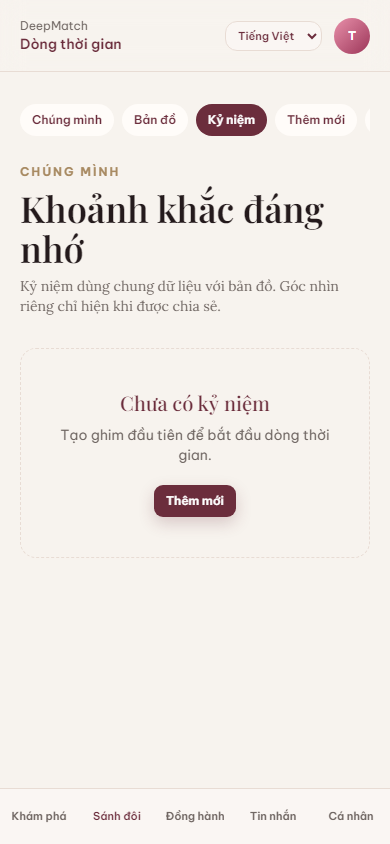
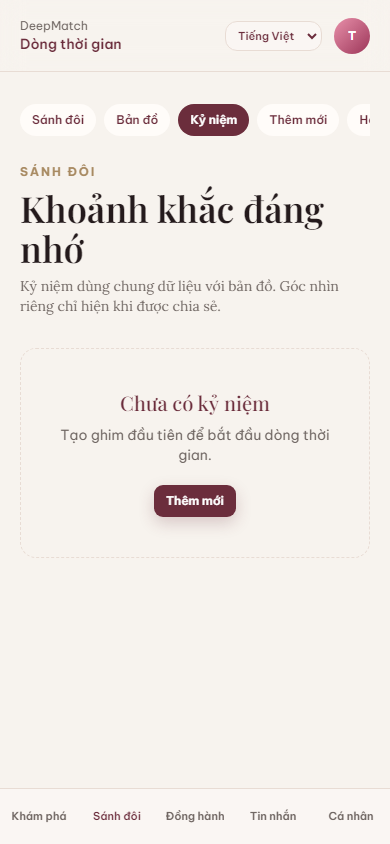
docs(evidence): refresh Discover feed screenshots after ff_matching fix
QA discovery_opt_in enabled; DATING-02/03 now show live candidate cards for Founder review.

diff --git a/.ai/NEXT_ACTION.md b/.ai/NEXT_ACTION.md
@@ -1,25 +1,22 @@
 # NEXT ACTION
 
-## Status 2026-10-13 — Visual evidence pack ready for Founder
+## Status 2026-10-13 — Staging visual + flags healthy; Founder review
 
 Branch: `feat/ext-lifestyle-ai-commerce` · Staging: https://datingvn.com
 
 ### Active program
 
-VISUAL-REFERENCE-REBUILD / sheet 26 · EXT-079..084 · DM-103..108
+VISUAL-REFERENCE-REBUILD · G-VISUAL-FIDELITY **chờ Founder**
 
-### Done this wave
+### Just shipped
 
-- Brand kit v3 + homepage REF-WEB
-- Dating / Couple / Lifestyle DEMO polish
-- Memories hero + map Map/List tabs
-- Canonical **Sánh đôi** labels (replaced residual “Chúng mình”)
-- EXT-084 screenshot pack: `docs/evidence/visual-2026-10-13/`
-- Deploy `dpl_EMYJQVSE6pgyYYHZjbkVbTN274Ev` + no-leak PASS
+- `26ad8ec` brand v3 in `/api/v1/health` + service-role `getFlags` (ff_matching now true)
+- Pink leftovers cleared (map markers, DeepMind, demo cart)
+- Founder checklist: `docs/evidence/visual-2026-10-13/FOUNDER_VISUAL_REVIEW.md`
 
 ### Next
 
-1. **Founder** visual compare 9/9 (G-VISUAL-FIDELITY) — no self-PASS
-2. Recapture DATING-03 profile detail + DATING-04 `/chat` after next deploy
-3. EXT-068 brand content Founder copy sign-off
+1. **Founder** 9/9 visual compare (checklist above) — no self-PASS
+2. Recapture DATING-02/03 with live feed if candidates exist
+3. EXT-077 analytics dictionary / EXT-078 release handoff after visual GO
 4. EXT-040 LIVE remains BLOCKED_EXTERNAL

diff --git a/docs/evidence/visual-2026-10-13/FOUNDER_VISUAL_REVIEW.md b/docs/evidence/visual-2026-10-13/FOUNDER_VISUAL_REVIEW.md
@@ -14,7 +14,7 @@ Open each pair side-by-side. Approve layout, color (wine/ivory/champagne), type 
 | 1 | WEB homepage | REF-WEB.png | WEB-01-full-1440.png / WEB-01-mobile-390.png | `/` |
 | 2 | Onboarding values | REF-DATING (frame 1) | DATING-01-onboarding.png | `/onboarding` |
 | 3 | Discover feed | REF-DATING (frame 2) | DATING-02-discover.png | `/discover` |
-| 4 | Profile detail | REF-DATING (frame 3) | *(recapture after ff_matching)* | `/discover/[id]` |
+| 4 | Profile detail | REF-DATING (frame 3) | DATING-02-discover.png (detail panel) | `/discover` (inline DATING-03) |
 | 5 | Chat | REF-DATING (frame 4) | DATING-04-chat.png | `/chat` |
 | 6 | Couple map | REF-COUPLE (frame 1) | COUPLE-01-map.png | `/couple/map` |
 | 7 | Memories | REF-COUPLE (frame 2) | COUPLE-02-memories.png | `/couple/memories` |
